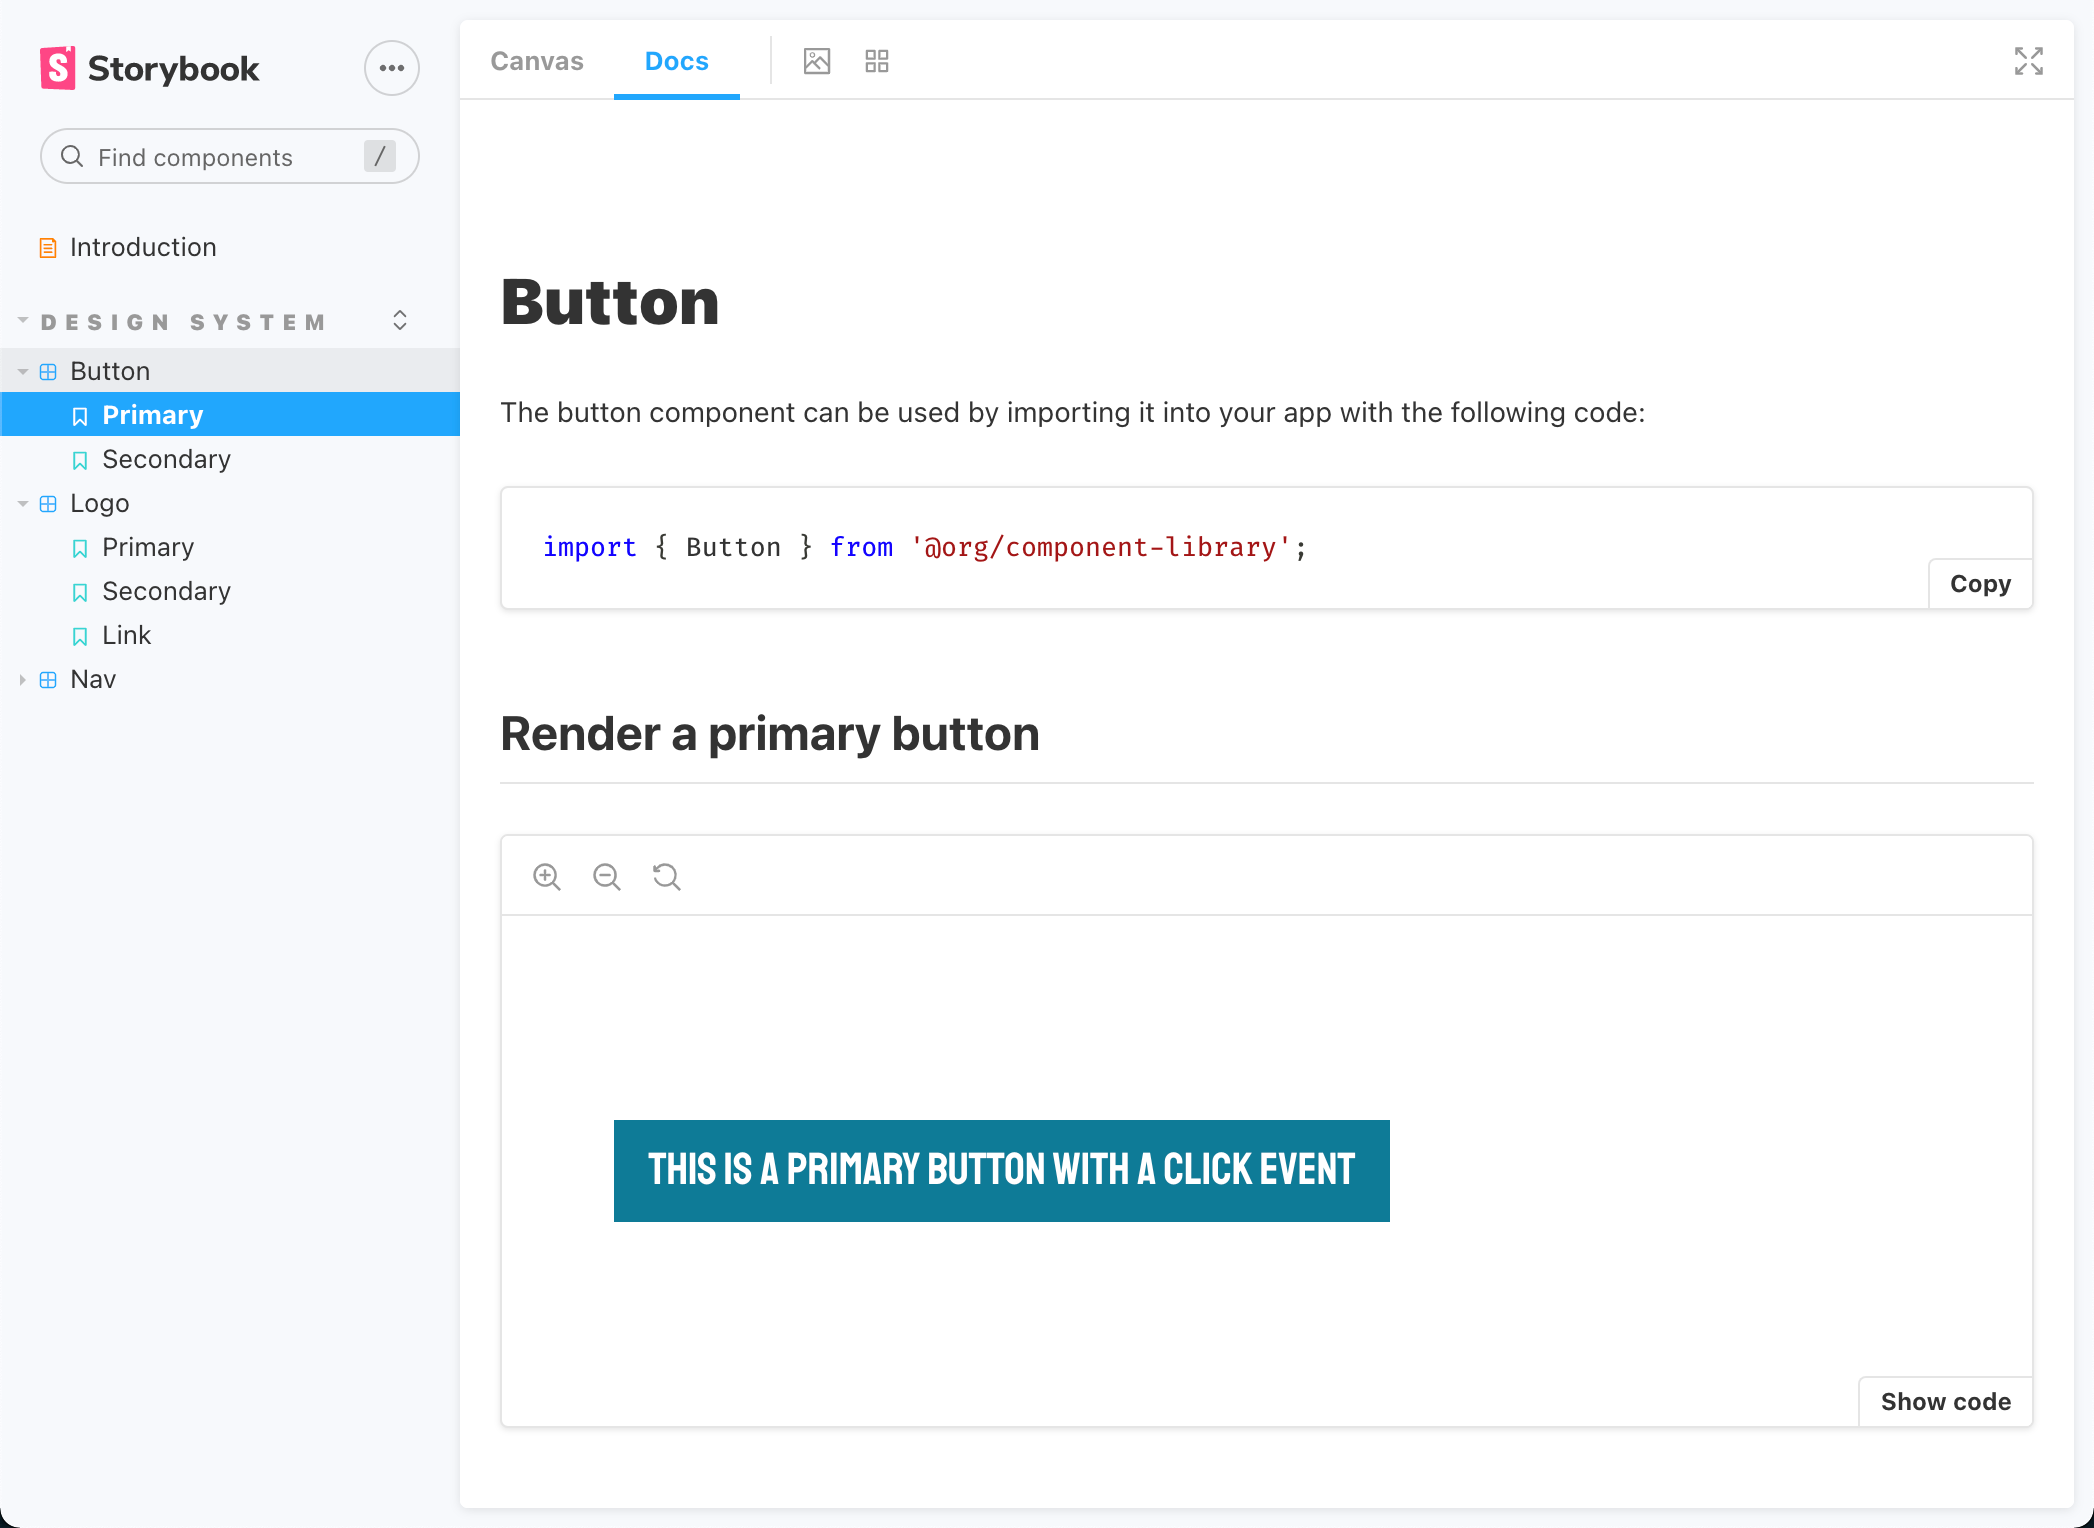
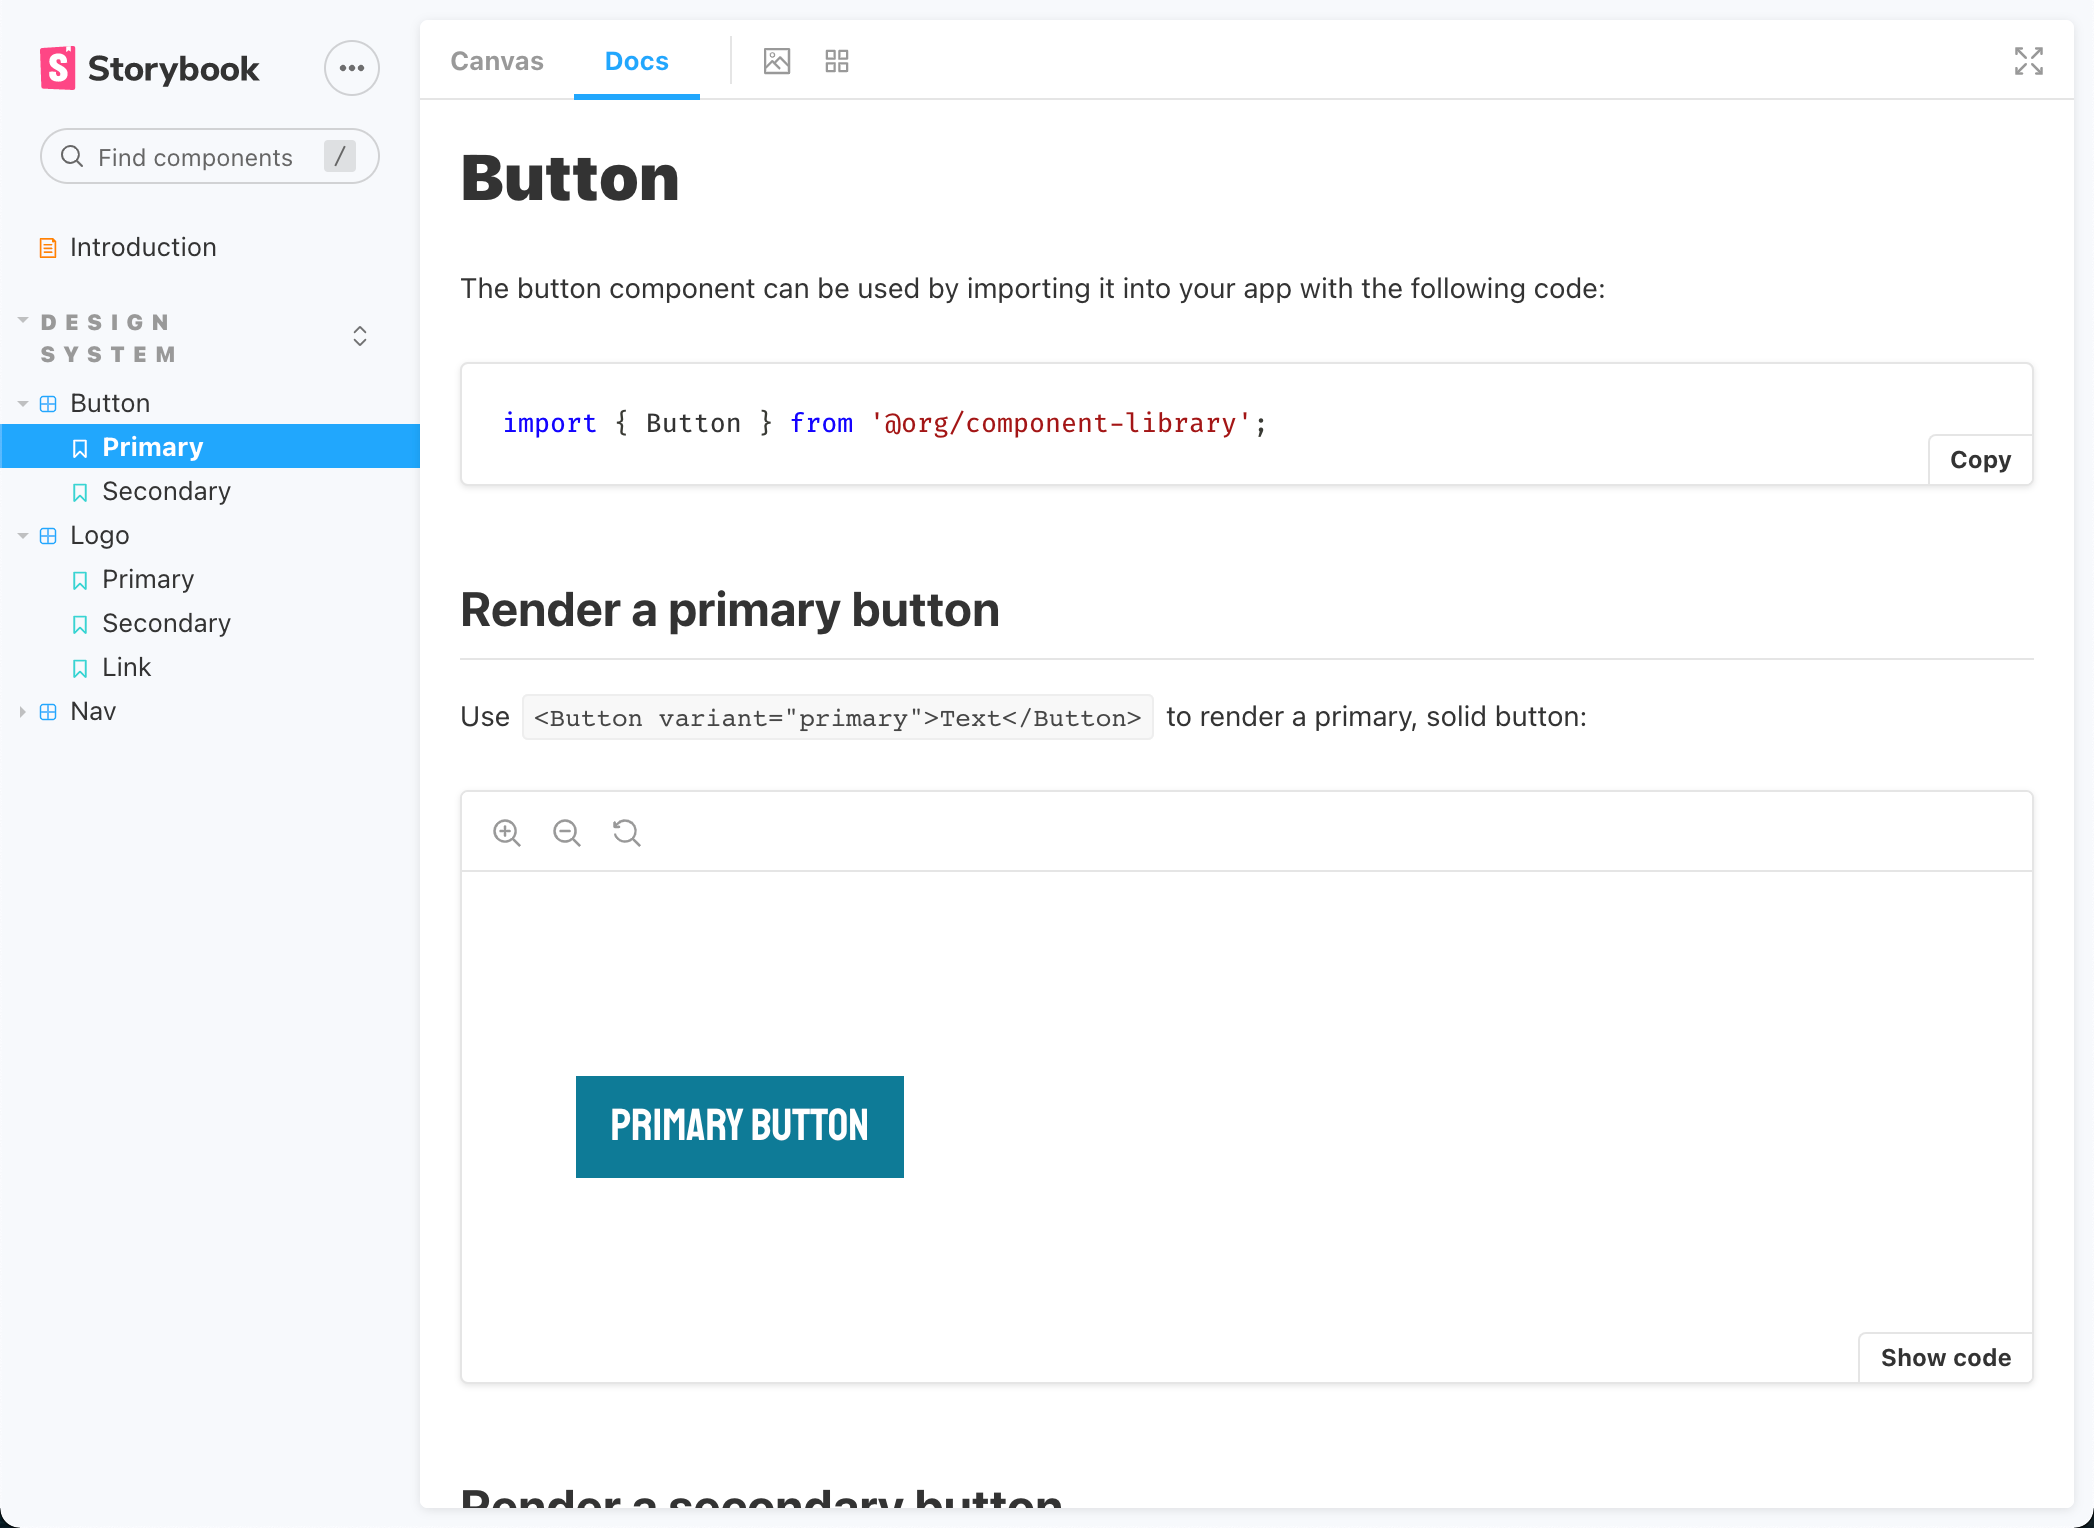
updates step 4

diff --git a/ui-component-docs/step4.md b/ui-component-docs/step4.md
@@ -1,4 +1,3 @@
-# Step 4
 
 In this final step, we're going to add documentation for the Button component we just created, allowing developers to identify how to properly use it.
 
@@ -21,7 +20,6 @@ In this file, let's import our dependencies. Select this code to place it into t
 <pre class="file" data-filename="./src/components/Button/Button.stories.mdx" data-target="append">import {
   Meta,
   Story,
-  ArgsTable,
   Preview,
 } from &#x27;@storybook/addon-docs/blocks&#x27;;
 
@@ -32,6 +30,8 @@ import { Button } from &#x27;./index&#x27;;
 Then let's set up some information about the page so Storybook knows what it's all about. Add the following code:
 
 <pre class="file" data-filename="./src/components/Button/Button.stories.mdx" data-target="append">&#x3C;Meta title=&#x27;Design System/Button&#x27; component={Button} /&#x3E;
+
+export const Template = (args) =&#x3E; &#x3C;Button {...args} /&#x3E;;
 
 # Button
 
@@ -45,6 +45,8 @@ import { Button } from &#x27;@org/component-library&#x27;;
 
 Here, we use the Storybook `Meta` component to define the title of this page in the documentation and provide context as to what component we're documenting.
 
+We also export our component as a variable called `Template`. We'll see how this is used next, but it essentially allows Storybook to bind prop data to our component so it can be updated in real-time!
+
 We then begin our documentation by explaining to the user what this component is and how to import it.
 
 > **Tip:** You can install the [MDX extension](https://marketplace.visualstudio.com/items?itemName=silvenon.mdx) from the VSCode marketplace for syntax highlighting in MDX files.
@@ -53,41 +55,71 @@ We then begin our documentation by explaining to the user what this component is
 
 Each defined use of a component in Storybook is known as a "Story". Using stories helps demonstrate how the component can be used with certain props.
 
-Add the following Story definitions to the file with this code:
+Add the following Story definitions to the file with this code and we'll be done with our documentation:
 
 <pre class="file" data-filename="./src/components/Button/Button.stories.mdx" data-target="append">## Render a primary button
 
+Use &#x60;&#x3C;Button variant=&#x22;primary&#x22;&#x3E;Text&#x3C;/Button&#x3E;&#x60; to render a primary, solid button:
+
 &#x3C;Preview withToolbar&#x3E;
-  &#x3C;Story name=&#x27;Primary&#x27;&#x3E;
-    &#x3C;Button variant=&#x27;primary&#x27; onClick={() =&#x3E; alert(&#x27;this button was clicked&#x27;)}&#x3E;
-      Primary Button
-    &#x3C;/Button&#x3E;
+  &#x3C;Story
+    name=&#x27;Primary&#x27;
+    args={{
+      variant: &#x27;primary&#x27;,
+      children: &#x27;Primary Button&#x27;,
+      onClick: () =&#x3E; alert(&#x27;this button was clicked&#x27;),
+    }}
+    argTypes={{
+      variant: {
+        name: &#x27;Variant&#x27;,
+        description: &#x27;Render different variants of the Button&#x27;,
+        control: {
+          type: &#x27;select&#x27;,
+          options: [&#x27;primary&#x27;, &#x27;secondary&#x27;],
+        },
+      },
+    }}
+  &#x3E;
+    {Template.bind({})}
   &#x3C;/Story&#x3E;
 &#x3C;/Preview&#x3E;
 
 ## Render a secondary button
 
+Use &#x60;&#x3C;Button variant=&#x22;secondary&#x22;&#x3E;Text&#x3C;/Button&#x3E;&#x60; to render a secondary, outlined button. This can be used to create contrast and help distinguish actions a user can take when compared to a primary button.
+
 &#x3C;Preview withToolbar&#x3E;
-  &#x3C;Story name=&#x27;Secondary&#x27;&#x3E;
-    &#x3C;Button variant=&#x27;secondary&#x27;&#x3E;Secondary Button&#x3C;/Button&#x3E;
+  &#x3C;Story
+    name=&#x27;Secondary&#x27;
+    args={{
+      variant: &#x27;secondary&#x27;,
+      children: &#x27;Secondary Button&#x27;,
+      onClick: () =&#x3E; alert(&#x27;this button was clicked&#x27;),
+    }}
+    argTypes={{
+      variant: {
+        name: &#x27;Variant&#x27;,
+        description: &#x27;Render different variants of the Button&#x27;,
+        control: {
+          type: &#x27;select&#x27;,
+          options: [&#x27;primary&#x27;, &#x27;secondary&#x27;],
+        },
+      },
+    }}
+  &#x3E;
+    {Template.bind({})}
   &#x3C;/Story&#x3E;
 &#x3C;/Preview&#x3E;
 
 </pre>
 
+Here, we pass in some default prop data as `args` and we also instruct Storybook how to handle some of the prop data in `argTypes`. 
+
+The `Template.bind({})` function will take all of the context added to the `Story` component and pass it down into the rendered Button.
+
 These will show users how to render a Primary and Secondary button and what they actually look like on a page.
 
-## Add Args Table
-
-Finally, we want to be able to show developers a table of all options for the component's prop values. Add the following code:
-
-<pre class="file" data-filename="./src/components/Button/Button.stories.mdx" data-target="append">## Button Component Props
-
-&#x3C;ArgsTable of={Button} /&#x3E;
-
-</pre>
-
-Great! Now let's see how it all looks.
+Now let's see how it all looks.
 
 Because this is running through Storybook, we are going to run this different command instead:
 
@@ -95,18 +127,18 @@ Because this is running through Storybook, we are going to run this different co
 
 Navigate to the documentation by selecting the [**Documentation**](https://[[HOST_SUBDOMAIN]]-6006-[[KATACODA_HOST]].environments.katacoda.com) tab in the dashboard. The resulting page should list all of the defined components, including our Button, as the following image shows:
 
-![The Storybook documentation shows stories for the created components, including the Button component.](/ui-component-docs/step-04_1.png)
+![The Storybook documentation shows stories for the created components, including the Button component.](./assets/step-04_1.png)
 
-Explore a little bit and get familiar with Storybook. Use the "Docs" tab to see all of the documentation we've written at once, including the table of possible prop argument values.
+Explore a little bit and get familiar with Storybook. Use the **Docs** tab in Storybook to see all of the documentation we've written at once, including the table of possible prop argument values.
+
+We can even switch to the **Canvas** tab in Storybook, which allows us to update the props for a component in real-time and let us preview on the fly!
 
 Now our Button has been built and documented, allowing other developers to learn how to use it. Great work! 
 
-Let's recap everything we learned on the following page.
-
-Let's take a quick knowledge check:
+Let's recap everything we learned on the following page. But first, let's take one final knowledge check:
 
 >>Question: What Storybook component allows us to name and organize our component's documentation for users?<<
-(*)  <Meta>
-( )  <Preview>
-( )  <Story>
-( )  <ArgsTable>
+(*)  Meta
+( )  Preview
+( )  Story
+( )  ArgsTable

diff --git a/ui-component-docs/step3.md b/ui-component-docs/step3.md
@@ -1,4 +1,3 @@
-# Step 3
 
 Our Button component is complete, but if we want other developers to download and use this component, we should add some default values and warning messages for when an incorrect prop value is used.
 
@@ -43,11 +42,11 @@ Now open the [**Main Site**](https://[[HOST_SUBDOMAIN]]-3000-[[KATACODA_HOST]].e
 
 Now we don't need to pass any `variant` props at all and still get a nice-looking button rendered to the page, as the next image shows:
 
-![The page displays multiple buttons with their variant styles and one un-styled button.](/ui-component-docs/assets/step-03_1.png)
+![The page displays multiple buttons with their variant styles and one un-styled button.](./assets/step-03_1.png)
 
 Notice the one at the bottom with the incorrect `variant` prop value passed in? It doesn't break the application, but it does throw a warning to the developer console, as can be seen in the following image:
 
-![The developer console shows a warning indicating an incorrect prop value was used.](/ui-component-docs/assets/step-03_2.png)
+![The developer console shows a warning indicating an incorrect prop value was used.](./assets/step-03_2.png)
 
 The work we did here adds a lot to a developer's experience if they are to use this component library in their own project. Not only can they do less work because of the default props set up, they can also debug any errors by checking for a mismatched prop value.
 
@@ -66,6 +65,6 @@ In the next step, we'll use Storybook and write documentation for our new UI com
 
 Let's take a quick knowledge check:
 
->>Question: True or False: We can add PropTypes to any React component.<<
+>>Question: True or False: We can add PropTypes to any React component and not just ones built with styled-components.<<
 (*)  True
 ( )  False 

diff --git a/ui-component-docs/step1.md b/ui-component-docs/step1.md
@@ -1,4 +1,3 @@
-# Step 1
 
 In this first step, we'll inherit a codebase for a design system and extend upon it by adding a new Button component.
 
@@ -77,7 +76,7 @@ Now open the [**Main Site**](https://[[HOST_SUBDOMAIN]]-3000-[[KATACODA_HOST]].e
 
 As we can see on the page, our new component has joined the components we've inherited and is rendered to the page in two formats. The page should look something like the following image:
 
-![The main page displays previously created components and the new Button components.](ui-component-docs/assets/step-01_1.png)
+![The main page displays previously created components and the new Button components.](./assets/step-01_1.png)
 
 > **Tip:** If you want to use this component as a hyperlink, do so with something like `<Button as='a' href="#">I'm a link!</Button>` and render it as an anchor element!
 

diff --git a/ui-component-docs/step2.md b/ui-component-docs/step2.md
@@ -1,4 +1,3 @@
-# Step 2
 
 In this step, we're going to extend upon this component by accepting props that will dictate the style the button appears in.
 
@@ -70,7 +69,7 @@ Now open the [**Main Site**](https://[[HOST_SUBDOMAIN]]-3000-[[KATACODA_HOST]].e
 
 The page should now look something like the following image:
 
-![The page now displays multiple buttons with different styles.](ui-component-docs/assets/step-02_1.png)
+![The page now displays multiple buttons with different styles.](./assets/step-02_1.png)
 
 Our Button component now renders in different styles based on passed in prop data. We should probably account for what happens if you pass in an incorrect prop, or no props at all, as that last button doesn't look too great compared to the others.
 
